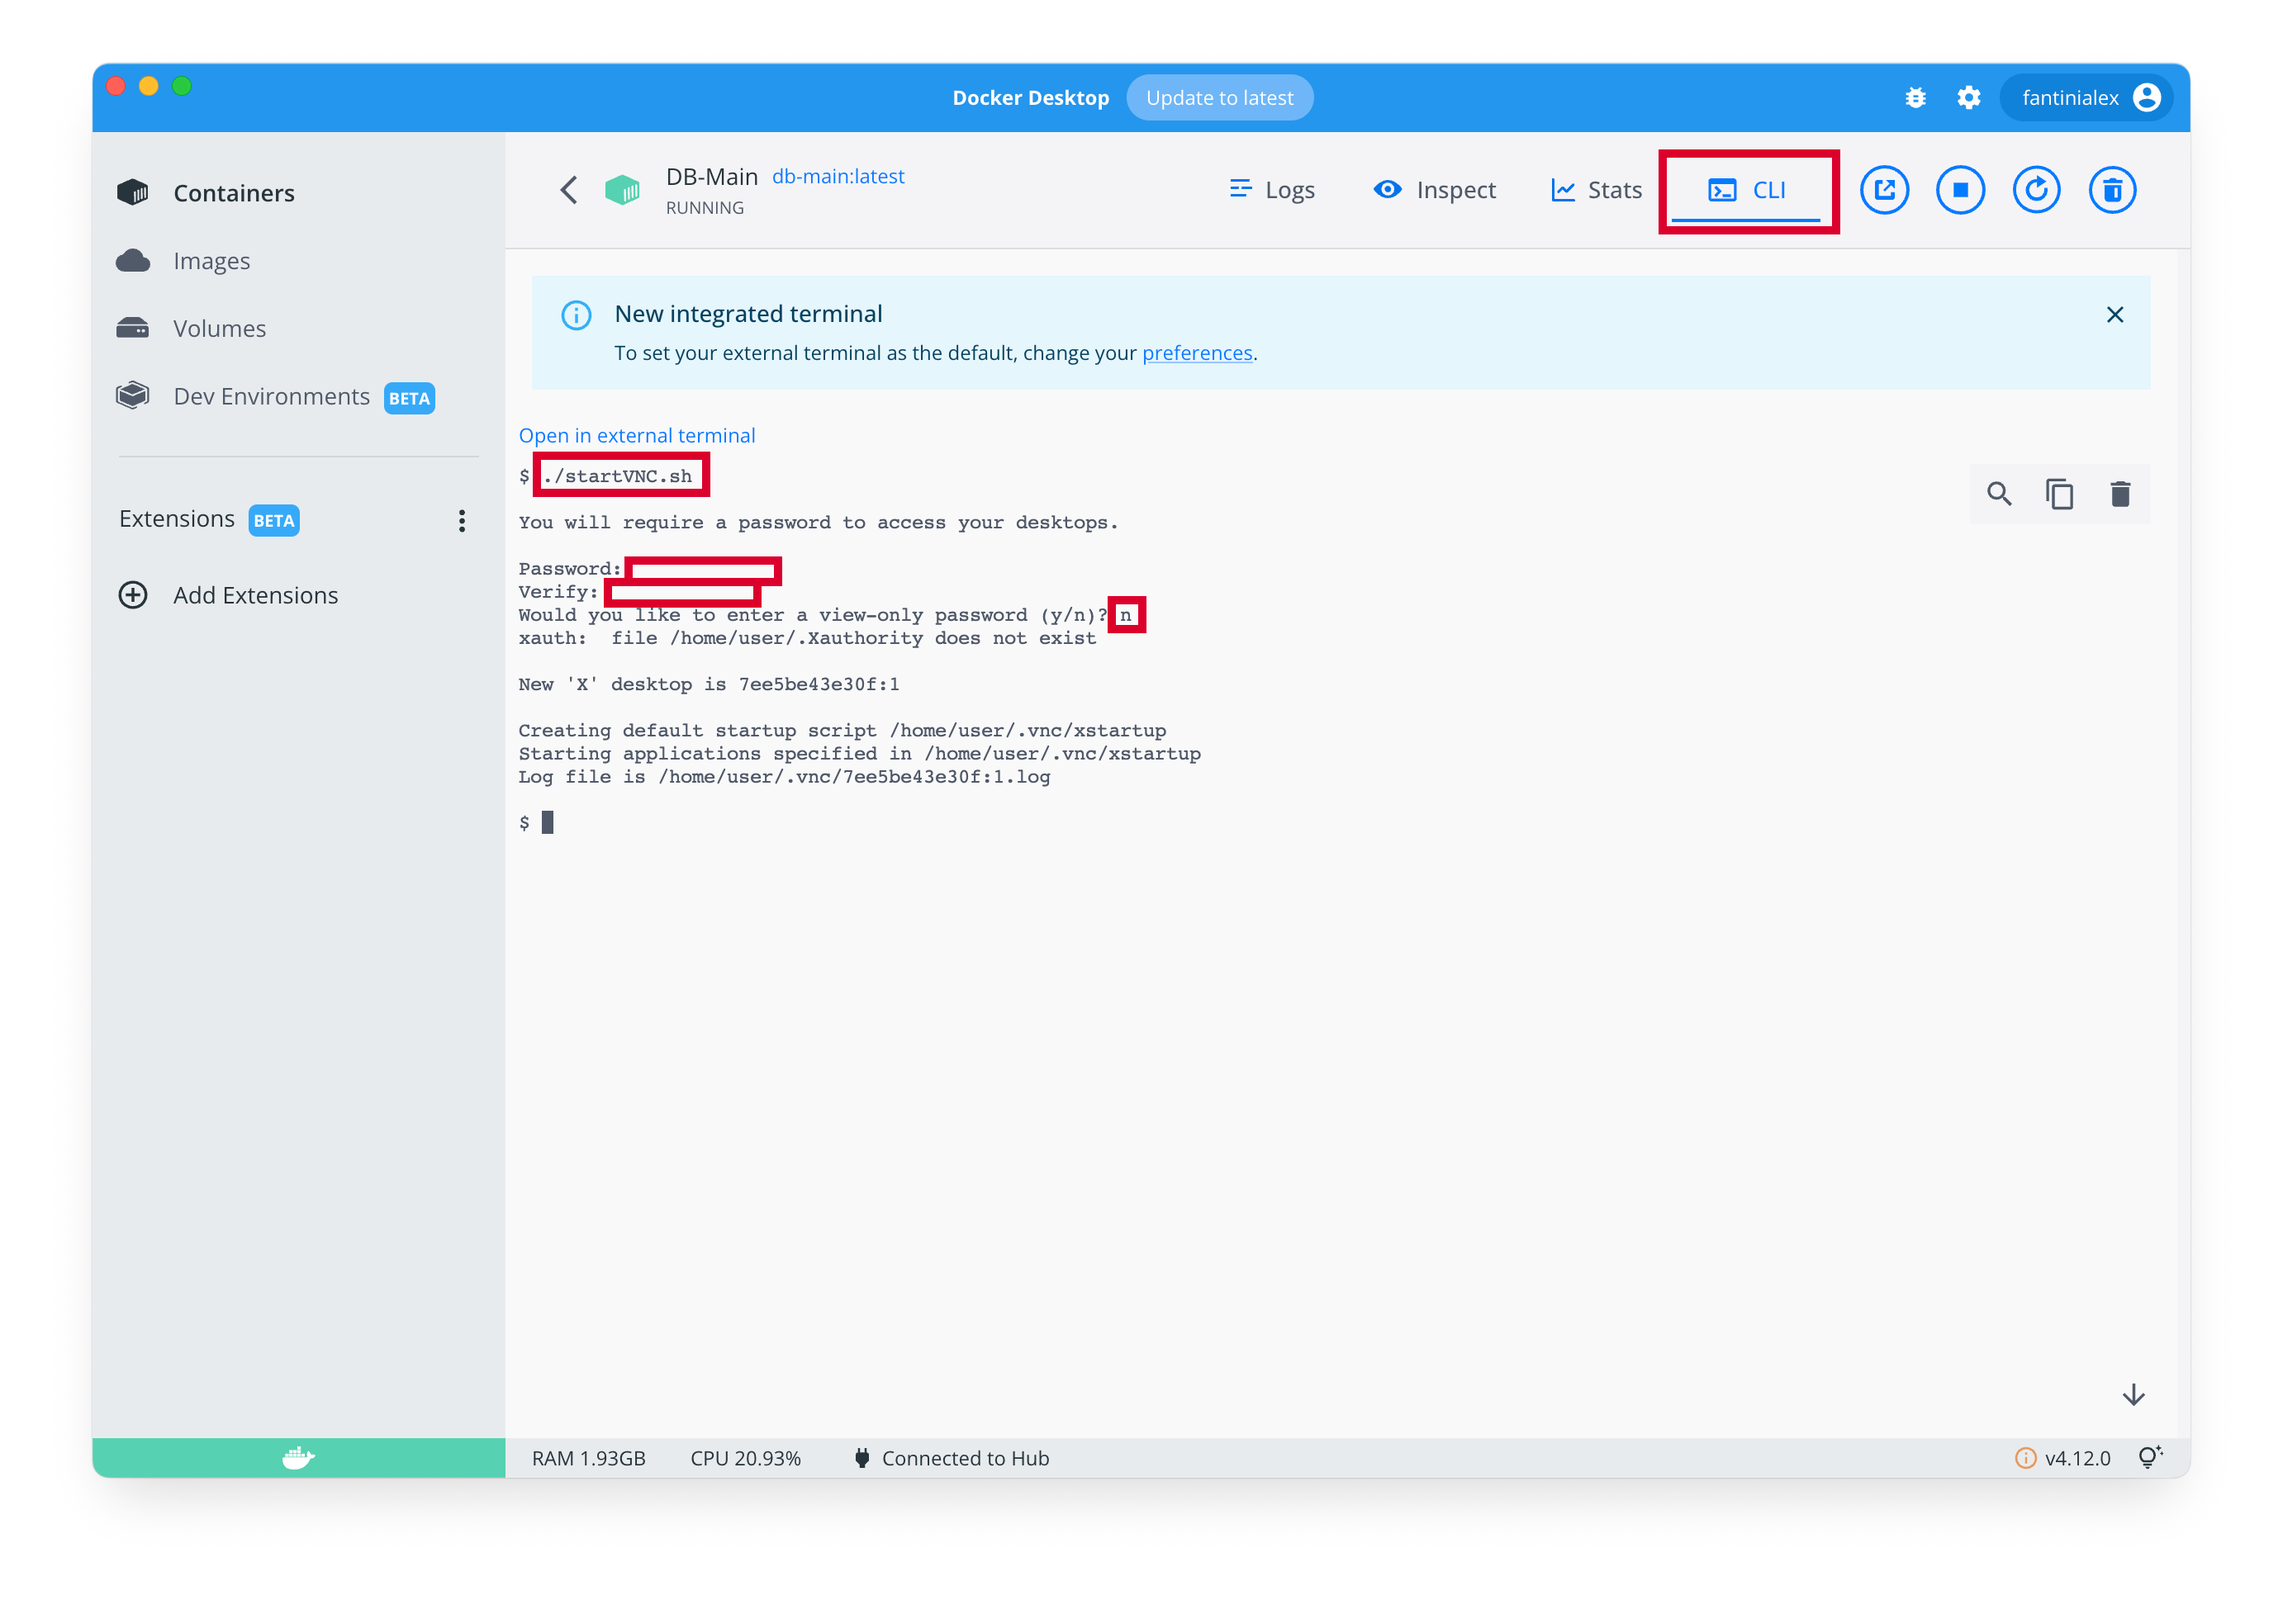
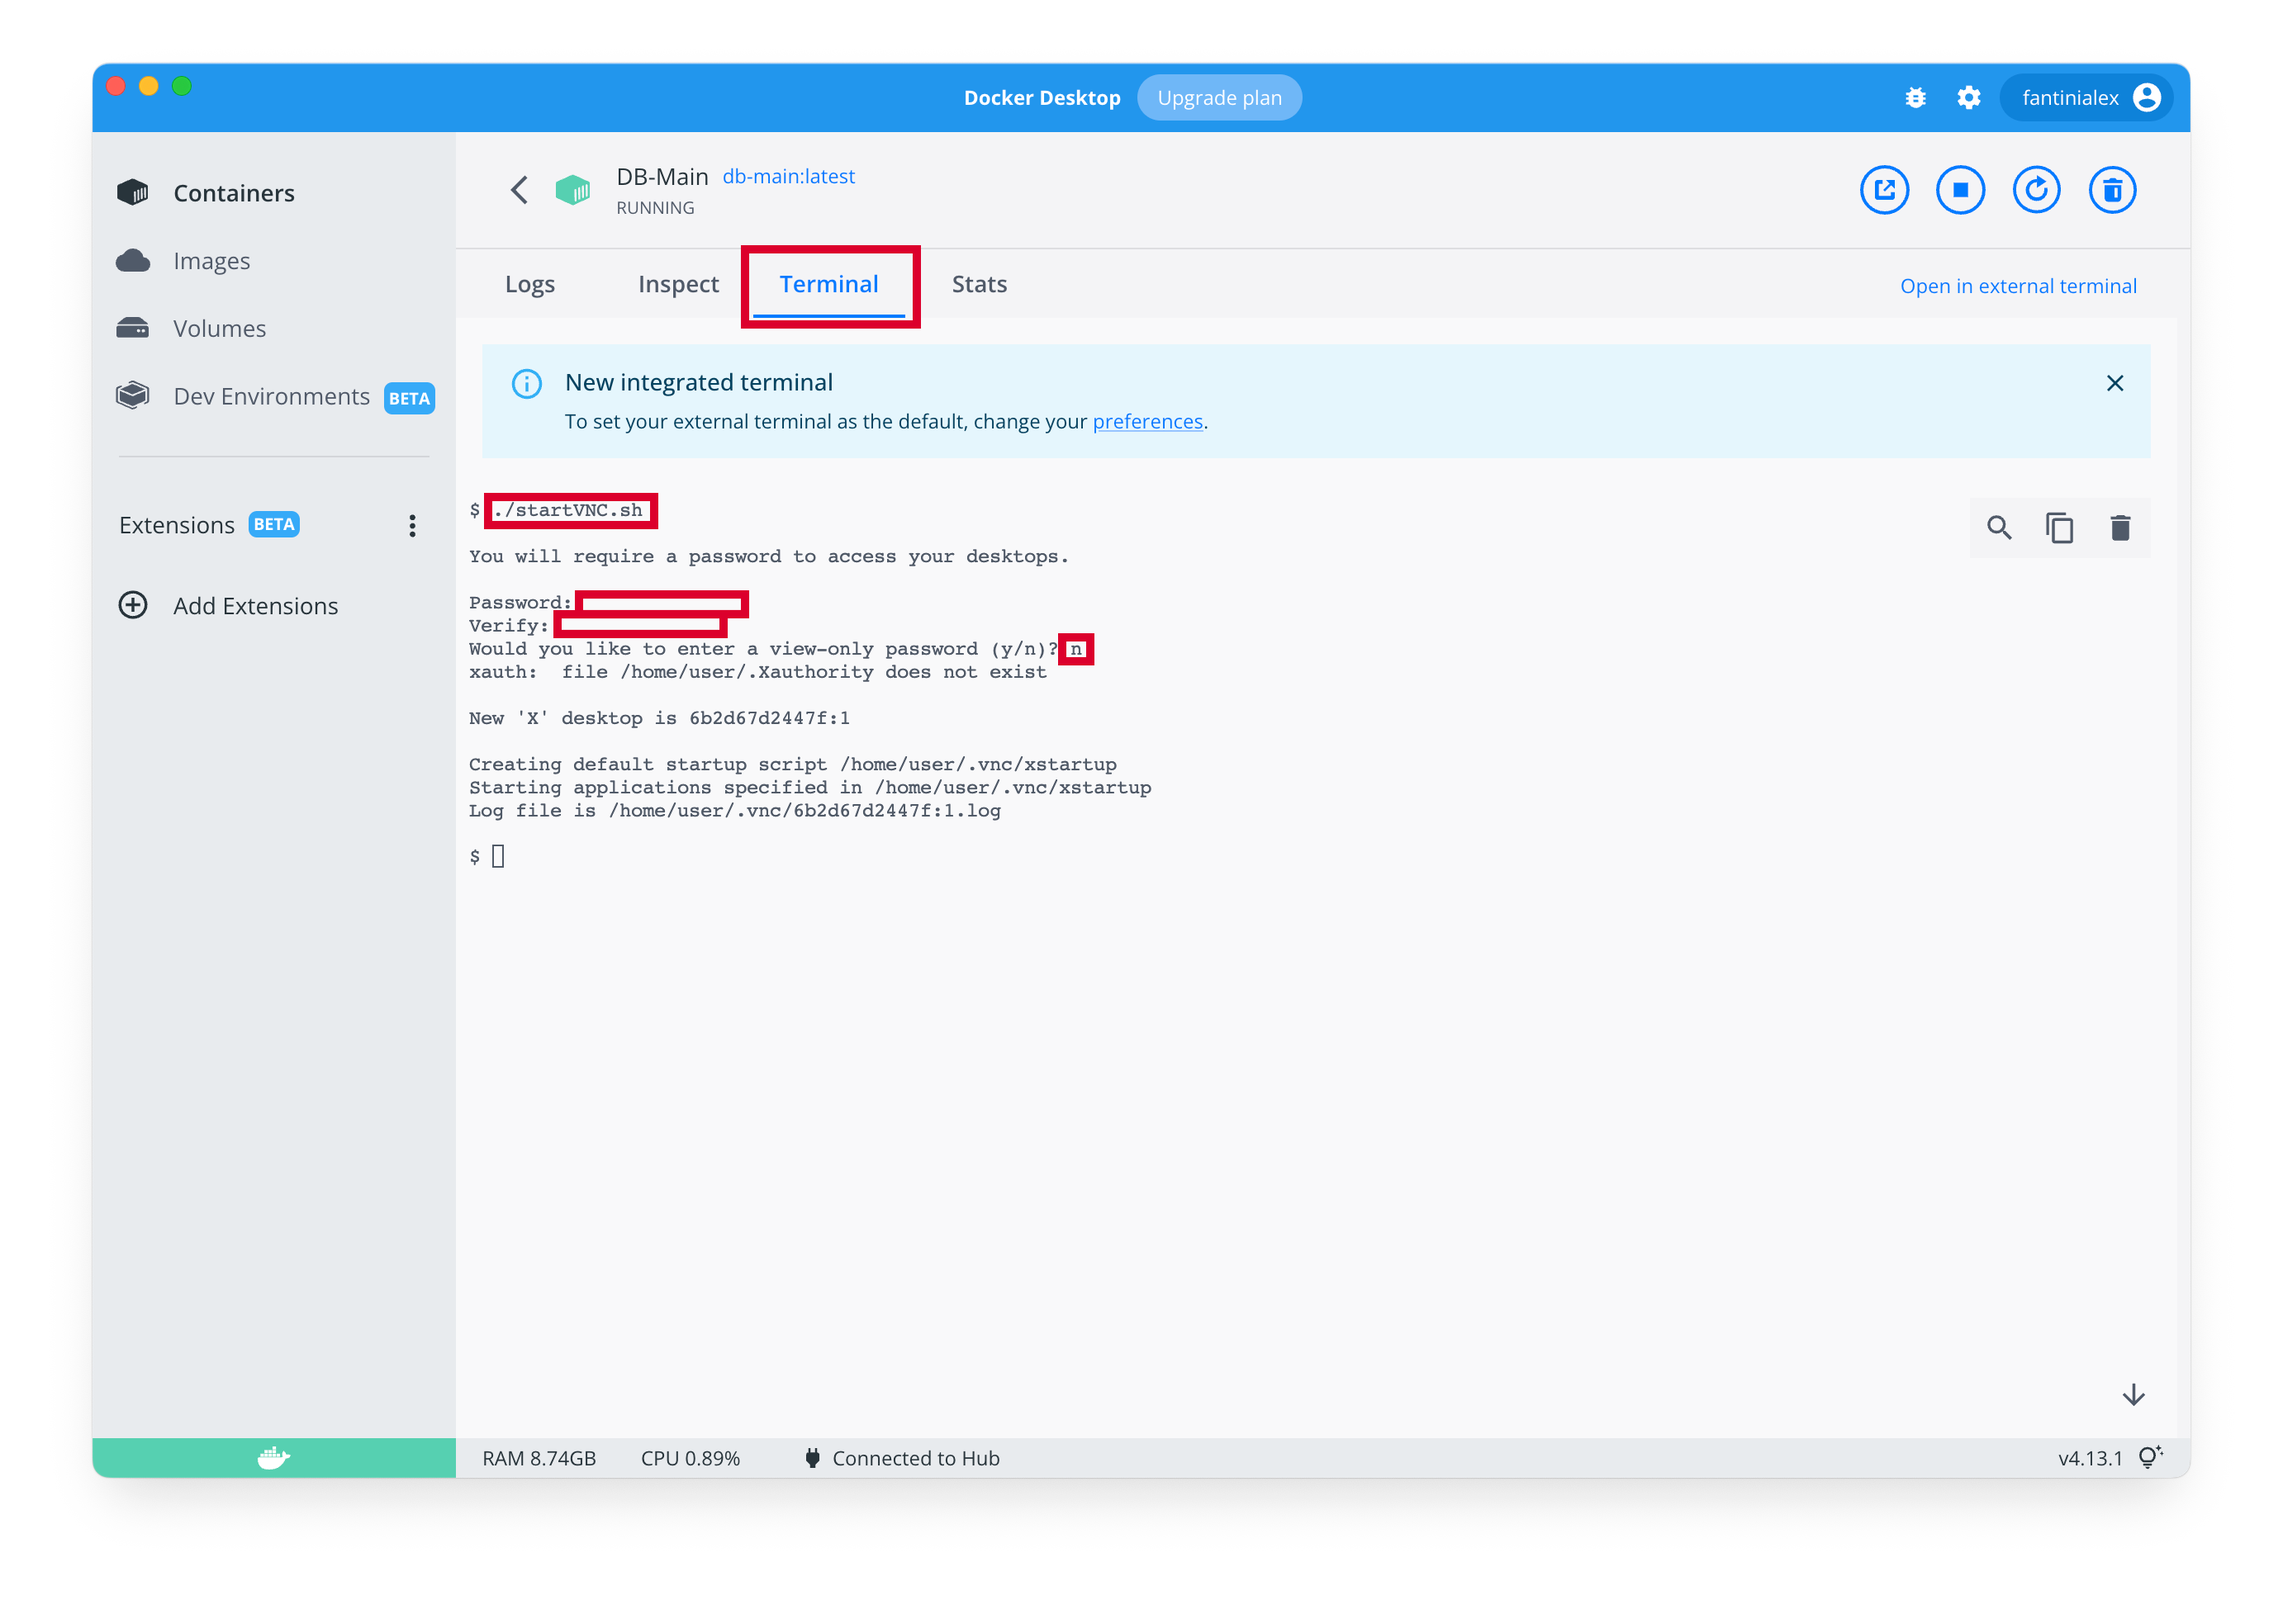
Removed superfluous layers and updated guide with screenshots of latest Docker Desktop version

diff --git a/README.md b/README.md
@@ -36,15 +36,15 @@ A simple Dockerfile to execute [DB-Main](https://www.db-main.eu) on macOS, M1 or
 1. Start Docker (open the app)
 2. Go to *Containers* and, if not running, start the container
 	![Container list](images/image3.png)
-3. Click on the container's name and go to *CLI*
-4. Type ```./startVNC.sh```, type the password that you prefer twice and then the character *n*
-	![CLI commands](images/image4.png)
+3. Click on the container's name and go to *Terminal*
+4. Type ```./startVNC.sh```, type the password that you prefer twice and then the character ```n```
+	![Terminal commands](images/image4.png)
 5. Open *Screen Sharing* on your Mac (cmd+space > Screen Sharing)
 6. Type ```localhost:3000```, click *Connect*, type the password that you chose in point 4 and click *Sign In*
 	![Screen Sharing](images/image5.png)
 	![VNC password](images/image6.png)
 7. You can put full screen the new window and... that's it
-	On the Desktop you have the folder *Execises* and the file *db-main.sh*, right click on it and *Execute*!
+	On the Desktop you have the folder *Exercises* and the file *db-main.sh*, right click on it and *Execute*!
 	![Desktop](images/image7.png)
 	During execution, you must keep Docker open
 
